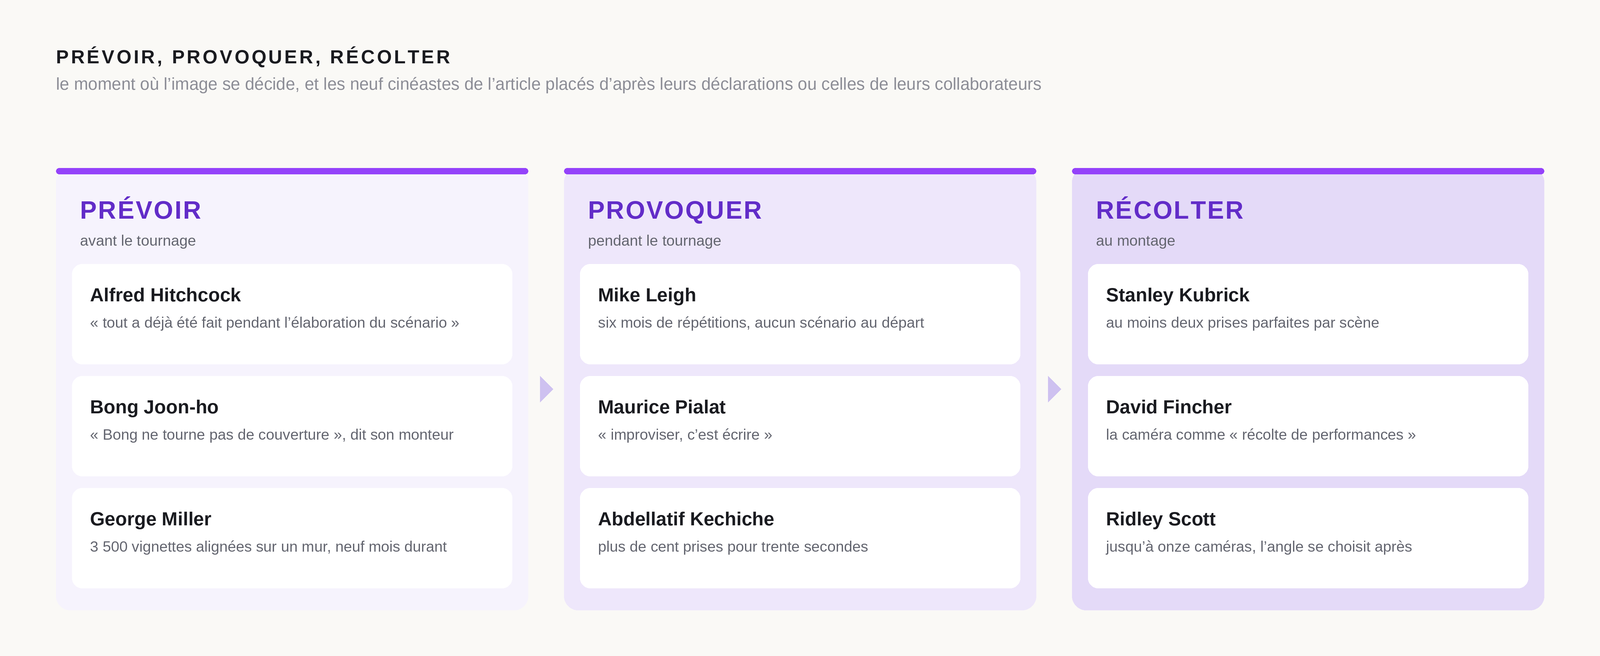
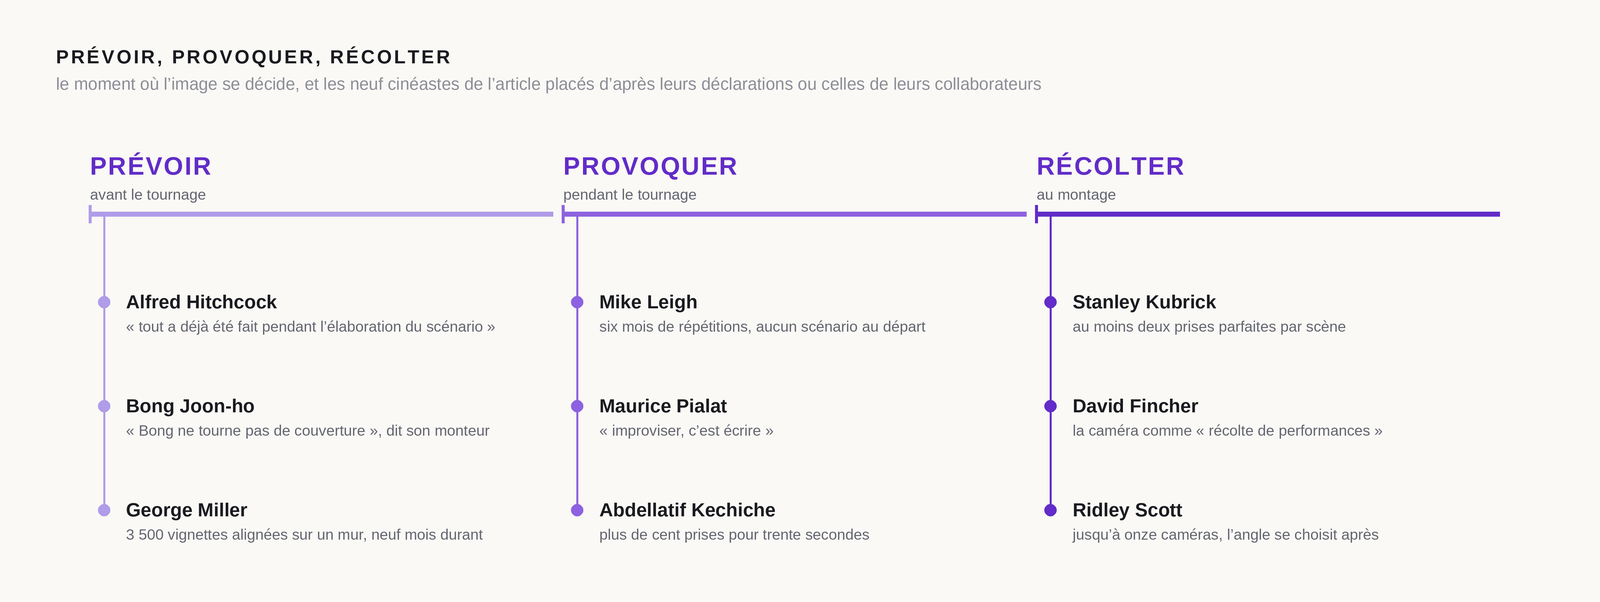
IMAGE 1 : un axe, pas des cases
Premier jet : trois zones teintées contenant chacune trois fiches
blanches. Neuf rectangles sur trois colonnes, autrement dit un tableau. Le
brief ne demandait pas un tableau, il demandait une frise, et la
différence n'est pas cosmétique : un tableau classe, une frise situe dans
le temps.

La figure est réduite à trois traits. Un axe horizontal, trois branches
qui en descendent, neuf points accrochés dessus. Plus un seul cadre, plus
un seul aplat de fond. Le temps est porté par les trois segments d'axe,
qui foncent en avançant, et par rien d'autre ; un contrôle vérifie que la
rampe va bien du plus clair au plus foncé.

602 pixels de haut contre 656, et surtout un dessin qui respire au lieu
d'une grille.

Claude-Session: https://claude.ai/code/session_015un2t2xRvThoKm9jAu6CXK

diff --git a/article-mise-en-scene/trois_moments.py b/article-mise-en-scene/trois_moments.py
@@ -6,13 +6,17 @@ Les trois moments où l'image d'un film se décide.
 Produit `mise-en-scene-trois-moments.webp`, son PNG et le SVG éditable.
 
 ----------------------------------------------------------------------------
-CE QUI EST DESSINÉ EST UNE SUITE DANS LE TEMPS
+UN AXE, PAS DES CASES
 ----------------------------------------------------------------------------
-Trois zones de gauche à droite, le scénario puis le plateau puis la salle de
-montage, et les neuf cinéastes posés dans celle qui leur revient. Le fond de
-chaque zone fonce d'un cran en avançant : la progression se lit avant les
-mots, et elle dit la seule chose que la figure a à dire, à savoir que ces
-méthodes ne diffèrent pas par le talent mais par le MOMENT.
+Premier jet : trois zones teintées, chacune contenant trois fiches blanches.
+Neuf rectangles alignés sur trois colonnes, autrement dit un tableau. Le
+brief ne demandait pas un tableau, il demandait une FRISE, et la différence
+n'est pas cosmétique : un tableau classe, une frise situe dans le temps.
+
+La figure est donc réduite à trois traits. Un axe horizontal, trois branches
+qui en descendent, neuf points accrochés dessus. Plus un seul cadre, plus un
+seul aplat de fond. Le temps est porté par l'axe, dont les trois segments
+foncent en avançant, et par rien d'autre.
 
 ----------------------------------------------------------------------------
 CHAQUE NOM PORTE SA SOURCE, EN SIX MOTS
@@ -53,7 +57,6 @@ INDIGO_APLAT = C.VIOLET
 #  ---------------------------------------------------------------------------
 FAMILLES = (
     {"verbe": "PRÉVOIR", "moment": "avant le tournage",
-     "fond": (246, 243, 253),
      "cineastes": (
          ("Alfred Hitchcock",
           "« tout a déjà été fait pendant l’élaboration du scénario »"),
@@ -63,7 +66,6 @@ FAMILLES = (
           "3 500 vignettes alignées sur un mur, neuf mois durant"),
      )},
     {"verbe": "PROVOQUER", "moment": "pendant le tournage",
-     "fond": (238, 231, 251),
      "cineastes": (
          ("Mike Leigh",
           "six mois de répétitions, aucun scénario au départ"),
@@ -73,7 +75,6 @@ FAMILLES = (
           "plus de cent prises pour trente secondes"),
      )},
     {"verbe": "RÉCOLTER", "moment": "au montage",
-     "fond": (228, 218, 248),
      "cineastes": (
          ("Stanley Kubrick",
           "au moins deux prises parfaites par scène"),
@@ -98,18 +99,28 @@ TITRE = "PRÉVOIR, PROVOQUER, RÉCOLTER"
 SOUS = ("le moment où l’image se décide, et les neuf cinéastes de l’article "
         "placés d’après leurs déclarations ou celles de leurs collaborateurs")
 
-ECART = 36
-Y_ZONE = 168
-HAUTEUR_FICHE = 100
-ECART_FICHE = 12
+AXE_Y = 214
+AXE_X0, AXE_X1 = 90, L - 90
+Y_PREMIER = 302        # la première entrée sous l'axe
+PAS_ENTREE = 104       # ce qui les sépare
+
+#  Les trois segments de l'axe foncent en avançant : c'est le seul endroit
+#  où le temps est dessiné.
+TEINTES_AXE = ((176, 156, 232), (140, 98, 224), (98, 44, 200))
 
 
 def rect(couche, b, r, teinte):
     return {"quoi": "rect", "couche": couche, "b": b, "r": r, "t": teinte}
 
 
-def polygone(couche, points, teinte):
-    return {"quoi": "polygone", "couche": couche, "pts": points, "t": teinte}
+def trait(couche, b, teinte, epaisseur):
+    return {"quoi": "trait", "couche": couche, "b": b, "t": teinte,
+            "e": epaisseur}
+
+
+def disque(couche, cx, cy, r, teinte):
+    return {"quoi": "disque", "couche": couche, "cx": cx, "cy": cy, "r": r,
+            "t": teinte}
 
 
 def texte(couche, xy, contenu, police, teinte, tracking=0.0, centre=False):
@@ -141,15 +152,14 @@ def composer():
                 raise SystemExit(
                     "%s est placé sans la phrase qui le place : le classement "
                     "deviendrait une opinion" % nom)
-    #  Le fond doit vraiment foncer, sinon la progression ne se voit pas.
-    clartes = [sum(f["fond"]) for f in FAMILLES]
+    #  L'axe doit vraiment foncer, sinon la progression ne se voit pas.
+    clartes = [sum(t) for t in TEINTES_AXE]
     if not (clartes[0] > clartes[1] > clartes[2]):
-        raise SystemExit("les trois fonds ne vont pas du plus clair au plus "
-                         "foncé : la suite dans le temps ne se lit plus")
+        raise SystemExit("les trois segments d'axe ne vont pas du plus clair "
+                         "au plus foncé : la suite dans le temps ne se lit "
+                         "plus")
 
-    largeur = (L - 2 * MARGE - (len(FAMILLES) - 1) * ECART) / float(
-        len(FAMILLES))
-    hauteur = 96 + 3 * HAUTEUR_FICHE + 2 * ECART_FICHE + 22
+    largeur = (AXE_X1 - AXE_X0) / float(len(FAMILLES))
 
     o = []
     o.append(texte("titre", (MARGE, 46), TITRE, "titre", D.ENCRE, 2.2))
@@ -158,50 +168,48 @@ def composer():
         raise SystemExit("le sous-titre déborde")
     o.append(texte("titre", (MARGE, 74), sous, "sous", D.FAIBLE))
 
-    zones, fiches, textes_ = [], [], []
+    axe, branches, textes_ = [], [], []
     for i, f in enumerate(FAMILLES):
-        x0 = MARGE + i * (largeur + ECART)
+        x0 = AXE_X0 + i * largeur
         x1 = x0 + largeur
+        teinte_axe = TEINTES_AXE[i]
 
-        zones.append(rect("zones", [x0, Y_ZONE, x1, Y_ZONE + hauteur], 14,
-                          f["fond"]))
-        zones.append(rect("zones", [x0, Y_ZONE, x1, Y_ZONE + 6], 3,
-                          INDIGO_APLAT))
+        #  Le segment d'axe, et la graduation qui le ferme.
+        axe.append(trait("axe", [x0, AXE_Y, x1 - 10, AXE_Y], teinte_axe, 5))
+        axe.append(trait("axe", [x0, AXE_Y - 9, x0, AXE_Y + 9], teinte_axe, 3))
 
-        textes_.append(texte("zones", (x0 + 24, Y_ZONE + 28), f["verbe"],
-                             "verbe", INDIGO, 1.4))
-        textes_.append(texte("zones", (x0 + 24, Y_ZONE + 64), f["moment"],
-                             "moment", D.GRIS))
+        textes_.append(texte("axe", (x0, AXE_Y - 62), f["verbe"], "verbe",
+                             INDIGO, 1.4))
+        textes_.append(texte("axe", (x0, AXE_Y - 28), f["moment"], "moment",
+                             D.GRIS))
 
-        y = Y_ZONE + 96
-        for nom, source in f["cineastes"]:
-            fiches.append(rect("fiches", [x0 + 16, y, x1 - 16,
-                                          y + HAUTEUR_FICHE], 10, D.BLANC))
-            textes_.append(texte("fiches", (x0 + 34, y + 20), nom, "nom",
+        #  La branche qui descend, et les points accrochés dessus.
+        tige = x0 + 14
+        dernier = Y_PREMIER + (len(f["cineastes"]) - 1) * PAS_ENTREE
+        branches.append(trait("branches", [tige, AXE_Y, tige, dernier],
+                              teinte_axe, 2))
+
+        for j, (nom, source) in enumerate(f["cineastes"]):
+            y = Y_PREMIER + j * PAS_ENTREE
+            branches.append(disque("branches", tige, y, 6, teinte_axe))
+            textes_.append(texte("entrées", (tige + 22, y - 11), nom, "nom",
                                  D.ENCRE))
             lignes = mesure.couper(D.typo(source), fontes["source"],
-                                   largeur - 68)
+                                   largeur - 48)
             if len(lignes) > 2:
                 raise SystemExit("la source de %s tient en %d lignes"
                                  % (nom, len(lignes)))
-            for j, ligne in enumerate(lignes):
-                textes_.append(texte("fiches", (x0 + 34, y + 50 + j * 21),
+            for k, ligne in enumerate(lignes):
+                textes_.append(texte("entrées", (tige + 22, y + 16 + k * 21),
                                      ligne, "source", D.GRIS))
-            y += HAUTEUR_FICHE + ECART_FICHE
 
-        #  Le chevron qui dit le sens de lecture, et rien d'autre.
-        if i + 1 < len(FAMILLES):
-            cx, cy = x1 + ECART / 2.0, Y_ZONE + hauteur / 2.0
-            zones.append(polygone("zones", [(cx - 6, cy - 13),
-                                            (cx + 7, cy),
-                                            (cx - 6, cy + 13)],
-                                  (206, 193, 240)))
-
-    o.extend(zones)
-    o.extend(fiches)
+    o.extend(axe)
+    o.extend(branches)
     o.extend(textes_)
 
-    H = int(Y_ZONE + hauteur + 46)
+    bas = Y_PREMIER + (max(len(f["cineastes"]) for f in FAMILLES) - 1) \
+        * PAS_ENTREE
+    H = int(bas + 92)
     o.insert(0, rect("fond", [0, 0, L, H], 0, D.PAPIER))
     return H, o
 
@@ -212,8 +220,10 @@ def rendre_matriciel(H, ordres, base):
     for a in ordres:
         if a["quoi"] == "rect":
             t.rrect(a["b"], a["r"], teinte=a["t"])
-        elif a["quoi"] == "polygone":
-            t.polygone(a["pts"], a["t"])
+        elif a["quoi"] == "trait":
+            t.ligne(a["b"], a["t"], a["e"])
+        elif a["quoi"] == "disque":
+            t.disque(a["cx"], a["cy"], a["r"], teinte=a["t"])
         else:
             f = fontes[a["p"]]
             x, y = a["xy"]
@@ -261,10 +271,15 @@ def rendre_svg(H, ordres, base):
                            'rx="%g" fill="%s"/>'
                            % (x0, y0, x1 - x0, y1 - y0, a["r"],
                               teinte(a["t"])))
-            elif a["quoi"] == "polygone":
-                out.append('    <polygon points="%s" fill="%s"/>'
-                           % (" ".join("%g,%g" % p for p in a["pts"]),
-                              teinte(a["t"])))
+            elif a["quoi"] == "trait":
+                x0, y0, x1, y1 = a["b"]
+                out.append('    <line x1="%g" y1="%g" x2="%g" y2="%g" '
+                           'stroke="%s" stroke-width="%g" '
+                           'stroke-linecap="round"/>'
+                           % (x0, y0, x1, y1, teinte(a["t"]), a["e"]))
+            elif a["quoi"] == "disque":
+                out.append('    <circle cx="%g" cy="%g" r="%g" fill="%s"/>'
+                           % (a["cx"], a["cy"], a["r"], teinte(a["t"])))
             else:
                 _, taille, graisse = POLICES[a["p"]]
                 espacement = (' letter-spacing="%g"' % a["tr"]
